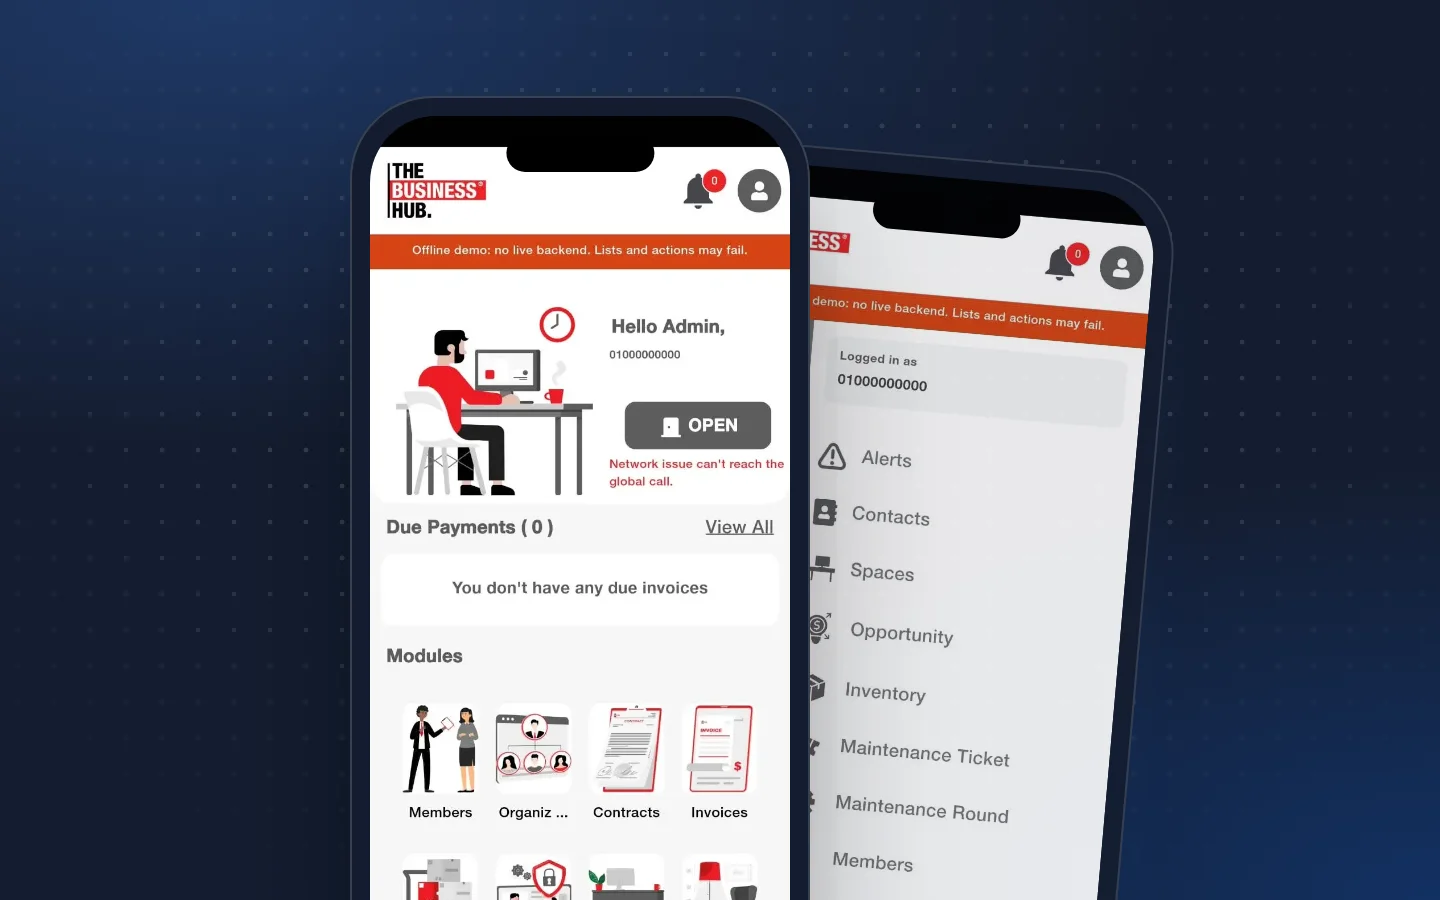
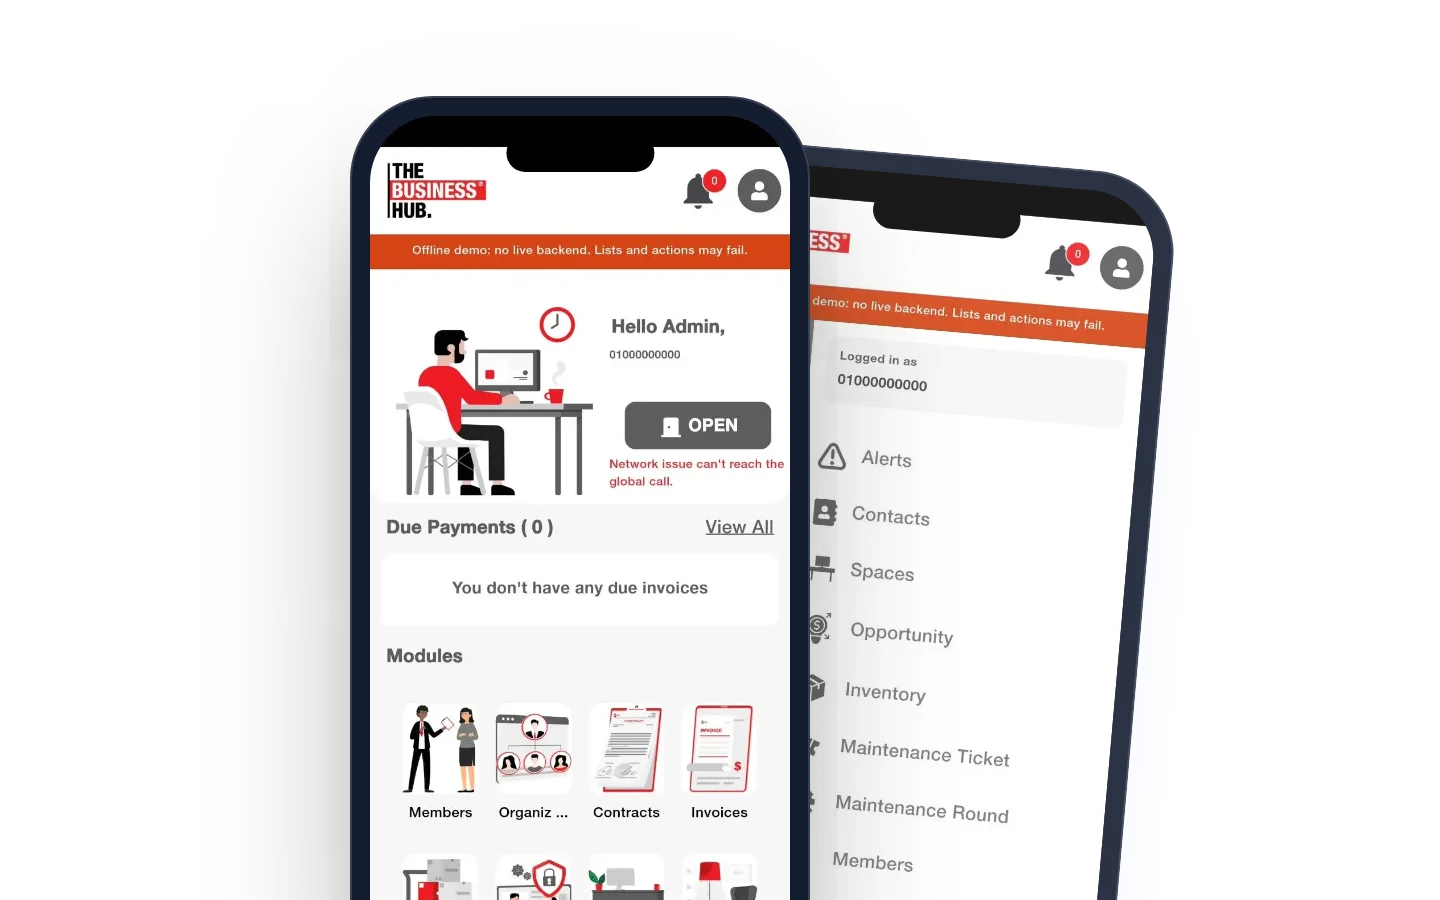
Make phone covers transparent so the card backdrop shows through.
- Cover page renders phones + shadow only; npm run covers captures with
  omitBackground and saves WebP with alpha (also fixes a bug where the
  save call was commented out and nothing was written).
- ProjectCover always draws the theme-aware CardBackdrop under the image,
  so the same file works in light and dark themes.
- Regenerated tbh-admin, tbh-member and stract covers.

diff --git a/app/cover-studio/[slug]/page.tsx b/app/cover-studio/[slug]/page.tsx
@@ -2,13 +2,13 @@ import type { Metadata } from "next";
 import Image from "next/image";
 import { notFound } from "next/navigation";
 import { Suspense } from "react";
-import { CardBackdrop } from "@/components/project-cover";
 import { PhoneFrame } from "@/components/phone-frame";
 import { projects } from "@/content/projects";
 import { getProjectImages } from "@/lib/images";
 
 /**
- * Dev-only page that lays out a project's mobile shots as a 16:10 cover.
+ * Dev-only page that lays out a project's mobile shots as a 16:10 cover on a
+ * transparent background (phones + shadow only); the card's CSS backdrop shows behind it.
  * `npm run covers` screenshots it into public/projects/<slug>/cover.webp.
  * Returns 404 in production builds.
  */
@@ -44,26 +44,24 @@ async function Studio({ params }: { params: Promise<{ slug: string }> }) {
   const W = 230; // phone width in the 720x450 canvas
 
   return (
-    <div className="grid min-h-dvh place-items-center bg-black">
+    <div className="grid min-h-dvh place-items-center">
       <div id="cover" className="relative h-[450px] w-[720px] overflow-hidden" data-theme="dark">
-        <CardBackdrop>
-          {back && (
-            <PhoneFrame
-              width={W}
-              className="absolute opacity-90"
-              style={{ left: 360 - W / 2 + 95, top: 78, transform: "rotate(5deg)" }}
-            >
-              <Image src={back} alt="" fill sizes={`${W * 2}px`} className="object-cover object-top" priority />
-            </PhoneFrame>
-          )}
+        {back && (
           <PhoneFrame
             width={W}
-            className="absolute shadow-[0_40px_80px_-20px_rgb(0_0_0/0.6)]"
-            style={{ left: 360 - W / 2 - (back ? 70 : 0), top: 48 }}
+            className="absolute opacity-90"
+            style={{ left: 360 - W / 2 + 95, top: 78, transform: "rotate(5deg)" }}
           >
-            <Image src={main} alt="" fill sizes={`${W * 2}px`} className="object-cover object-top" priority />
+            <Image src={back} alt="" fill sizes={`${W * 2}px`} className="object-cover object-top" priority />
           </PhoneFrame>
-        </CardBackdrop>
+        )}
+        <PhoneFrame
+          width={W}
+          className="absolute shadow-[0_40px_80px_-20px_rgb(0_0_0/0.6)]"
+          style={{ left: 360 - W / 2 - (back ? 70 : 0), top: 48 }}
+        >
+          <Image src={main} alt="" fill sizes={`${W * 2}px`} className="object-cover object-top" priority />
+        </PhoneFrame>
       </div>
     </div>
   );

diff --git a/scripts/mobile-covers.ts b/scripts/mobile-covers.ts
@@ -45,13 +45,19 @@ async function main() {
         continue;
       }
       await page.goto(`${base}/cover-studio/${p.slug}`, { waitUntil: "networkidle" });
-      await page.addStyleTag({ content: "header, footer, nextjs-portal { display: none !important }" });
+      // Hide site chrome and drop page backgrounds (incl. the theme fade) so only phones + shadow remain.
+      await page.addStyleTag({
+        content:
+          "header, footer, nextjs-portal { display: none !important }" +
+          "html, body, main, main > div { background: transparent !important; transition: none !important }",
+      });
       await page.waitForFunction(() =>
         Array.from(document.querySelectorAll<HTMLImageElement>("#cover img")).every((i) => i.complete && i.naturalWidth > 0),
       );
       await page.waitForTimeout(600); // let the route fade-in finish
-      const png = await page.locator("#cover").screenshot({ type: "png" });
-      await sharp(png).webp({ quality: 85 }).toFile(dest);
+      const png = await page.locator("#cover").screenshot({ type: "png", omitBackground: true });
+      // Keep the alpha channel: the card's CSS backdrop shows through around the phones.
+      await sharp(png).webp({ quality: 85, alphaQuality: 100 }).toFile(dest);
       console.log(`saved ${dest}`);
     }
   } finally {

diff --git a/components/project-cover.tsx b/components/project-cover.tsx
@@ -16,7 +16,10 @@ export function CardBackdrop({ children, className = "" }: { children?: ReactNod
   );
 }
 
-/** Cover screenshot, or a placeholder with the project's title and type. */
+/**
+ * Cover image over the card backdrop (transparent covers, e.g. generated phone covers,
+ * let the theme-aware backdrop show through), or a placeholder with title and type.
+ */
 export function ProjectCover({
   title,
   type,
@@ -34,14 +37,17 @@ export function ProjectCover({
 }) {
   if (src) {
     return (
-      <Image
-        src={src}
-        alt={`${title} screenshot`}
-        fill
-        sizes={sizes}
-        priority={priority}
-        className={`object-cover object-top ${className}`}
-      />
+      <>
+        <CardBackdrop className={className} />
+        <Image
+          src={src}
+          alt={`${title} screenshot`}
+          fill
+          sizes={sizes}
+          priority={priority}
+          className={`object-cover object-top ${className}`}
+        />
+      </>
     );
   }
   return (
